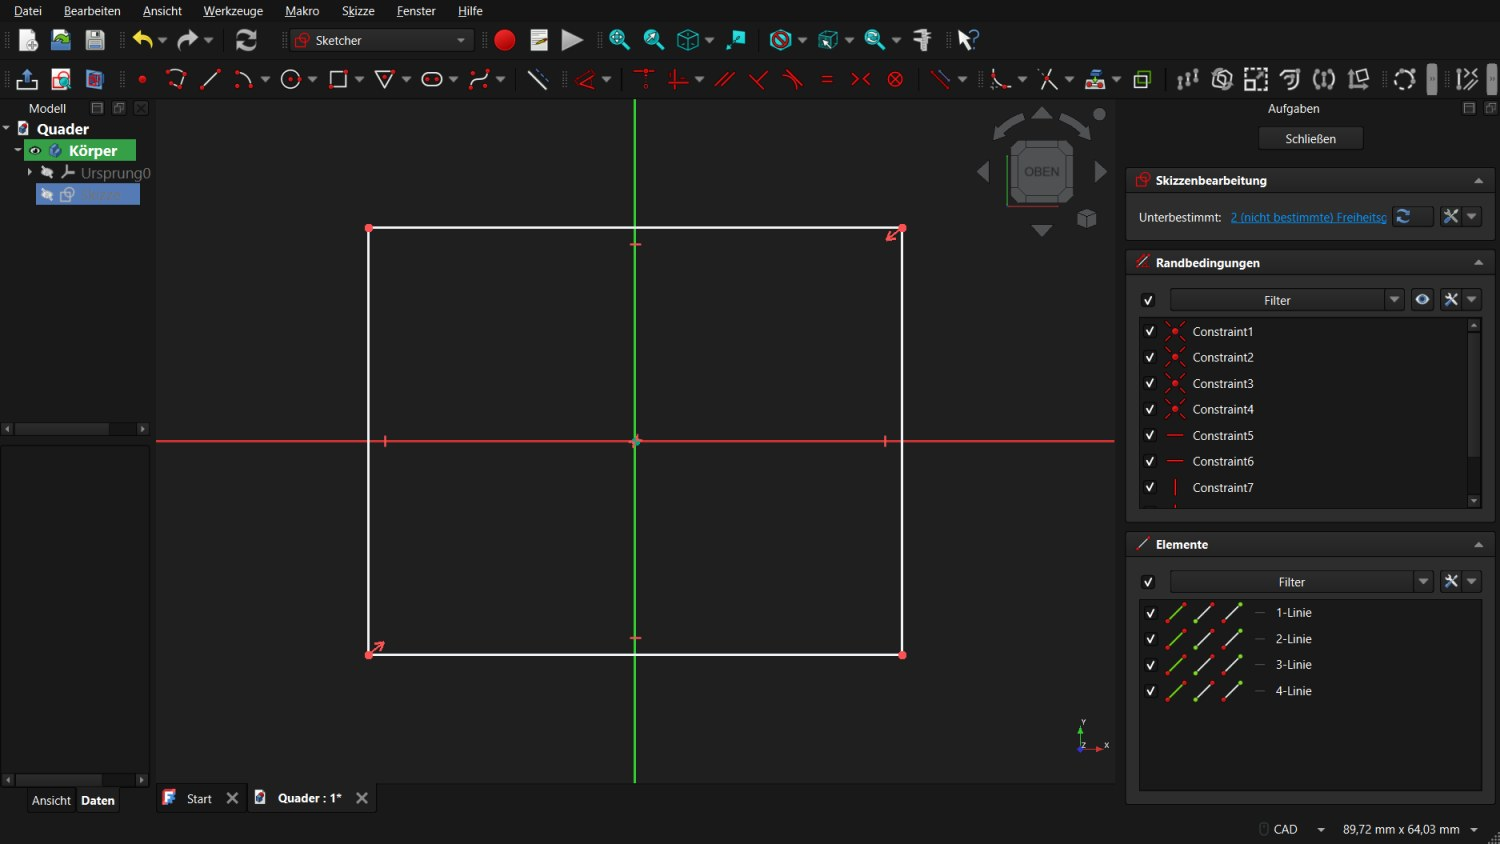
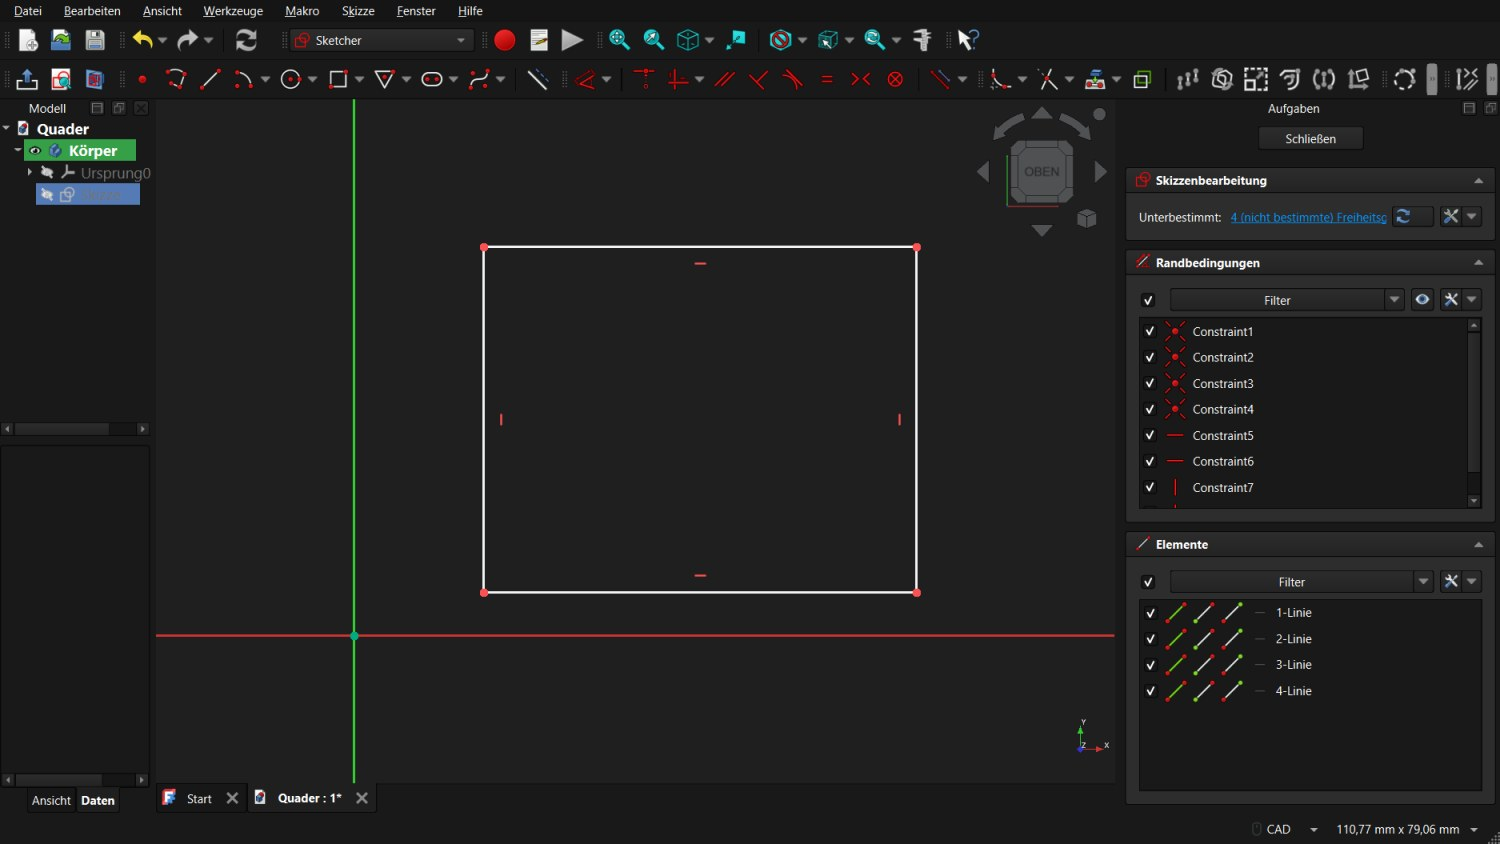
Schritt 8/9: Rechteck frei zeichnen, Lage ueber Symmetrie bestimmen

Changed region(s): [[0.1227, 0.2464, 0.736, 0.8009], [0.8893, 0.955, 0.9507, 0.9858], [0.828, 0.955, 0.8587, 0.9858]]

diff --git a/index.html b/index.html
@@ -321,8 +321,8 @@ table.shortcuts td:first-child{width:52%}
     {
       short:'Rechteck-Werkzeug', title:'Rechteck-Werkzeug wählen',
       img:'assets/06_rechteck.jpg',
-      alt:'Skizzen-Werkzeugleiste mit dem Werkzeug Zentriertes Rechteck',
-      lead:'Öffne das Rechteck-Menü (kleiner Pfeil) und wähle <b>Zentriertes Rechteck</b>.',
+      alt:'Skizzen-Werkzeugleiste mit dem Rechteck-Werkzeug',
+      lead:'Öffne das Rechteck-Menü (kleiner Pfeil) und wähle <b>Rechteck</b>.',
       list:['Das Symbol liegt oben in der Symbolleiste.'],
       focus:[0.2300, 0.0938, 0.0310, 0.0395], lens:[0.6200, 0.2986], zoom:2.8
     },
@@ -330,19 +330,19 @@ table.shortcuts td:first-child{width:52%}
       short:'Rechteck zeichnen', title:'Rechteck aufziehen',
       img:'assets/06_rechteck.jpg',
       alt:'Rechteck um den Ursprung mit roten Randbedingungen',
-      lead:'Starte im <b>Ursprung</b>, ziehe nach außen und klicke für die Ecke.',
-      list:['<kbd>Esc</kbd> beendet den Befehl.', 'Die roten Symbole sind <b>Randbedingungen</b>.'],
-      hint:'Horizontal, vertikal und symmetrisch: Die Form ist fixiert – die Größe fehlt noch (2 Freiheitsgrade).',
+      lead:'Ziehe ein <b>Rechteck</b> auf – die Lage ist noch egal.',
+      list:['Die roten Symbole sind <b>Randbedingungen</b>.', 'Es fehlen noch <b>4 Freiheitsgrade</b>: Größe und Lage.'],
+      hint:'Um die Lage kümmern wir uns im nächsten Schritt.',
       mouse:true,
-      focus:[0.4270, 0.5150, 0.0600, 0.0640], lens:[0.7000, 0.3199], zoom:2.5
+      focus:[0.8470, 0.2490, 0.1600, 0.0300], lens:[0.4500, 0.4000], zoom:2.2
     },
     {
       short:'Symmetrie', title:'Lage durch Symmetrie',
-      img:'assets/06_rechteck.jpg',
-      alt:'Rechteck mit Symmetrie-Randbedingung zum Ursprung',
-      lead:'Die <b>Symmetrie zum Ursprung</b> hält das Rechteck mittig.',
-      list:['Die roten Pfeile an den Ecken zeigen die Symmetrie.', 'Deshalb brauchst du nur zwei Maße – die Lage ist schon fest.'],
-      hint:'Das Werkzeug „Zentriertes Rechteck“ setzt diese Randbedingung automatisch.',
+      img:'assets/06b_symmetrie.jpg',
+      alt:'Rechteck nach der Symmetrie, 2 Freiheitsgrade',
+      lead:'Jetzt die <b>Lage</b> festlegen – mit der <b>Symmetrie</b>.',
+      list:['Wähle zwei gegenüberliegende <b>Ecken</b> und den <b>Ursprung</b>.', 'Dann das Werkzeug <b>Symmetrie</b> anklicken.'],
+      hint:'Das Rechteck springt in die Mitte – nur die Größe ist noch frei (2 Freiheitsgrade).',
       focus:[0.5970, 0.2750, 0.0500, 0.0700], lens:[0.3000, 0.3000], zoom:2.6
     },
     {
@@ -375,7 +375,7 @@ table.shortcuts td:first-child{width:52%}
       alt:'Vollständig bestimmte Skizze mit 50 und 40 mm',
       lead:'Rechte Kante anklicken, <b>40</b> eintragen.',
       list:['Größe (50 × 40) und Lage (Symmetrie) sind fest – die Linien werden <b>grün</b>.'],
-      focus:[0.5410, 0.4585, 0.0400, 0.1066], lens:[0.7000, 0.3199], zoom:2.4
+      focus:[0.5370, 0.4300, 0.0400, 0.1200], lens:[0.7000, 0.3000], zoom:2.4
     },
     {
       short:'Skizze schließen', title:'Skizze schließen',

diff --git a/tools/erzeuge_screenshots.py b/tools/erzeuge_screenshots.py
@@ -245,8 +245,8 @@ def run():
         pump(400)
 
         # Rechteck 50 x 40, zentriert um den Ursprung
-        pts = [App.Vector(-25, -20, 0), App.Vector(25, -20, 0),
-               App.Vector(25, 20, 0), App.Vector(-25, 20, 0)]
+        pts = [App.Vector(15, 5, 0), App.Vector(65, 5, 0),
+               App.Vector(65, 45, 0), App.Vector(15, 45, 0)]
         for i in range(4):
             sketch.addGeometry(Part.LineSegment(pts[i], pts[(i + 1) % 4]), False)
         for i in range(4):
@@ -255,12 +255,19 @@ def run():
         sketch.addConstraint(Sketcher.Constraint("Horizontal", 2))
         sketch.addConstraint(Sketcher.Constraint("Vertical", 1))
         sketch.addConstraint(Sketcher.Constraint("Vertical", 3))
-        sketch.addConstraint(Sketcher.Constraint("Symmetric", 0, 1, 2, 1, -1, 1))
         doc.recompute()
         pump(500)
         view.fitAll()
         pump(600)
         shot("06_rechteck")
+
+        # Symmetrie: zwei gegenüberliegende Ecken + Ursprung
+        sketch.addConstraint(Sketcher.Constraint("Symmetric", 0, 1, 2, 1, -1, 1))
+        doc.recompute()
+        pump(600)
+        view.fitAll()
+        pump(600)
+        shot("06b_symmetrie")
 
         # --- 7: 50 mm ---------------------------------------------------
         c50 = sketch.addConstraint(Sketcher.Constraint("Distance", 2, 50.0))
